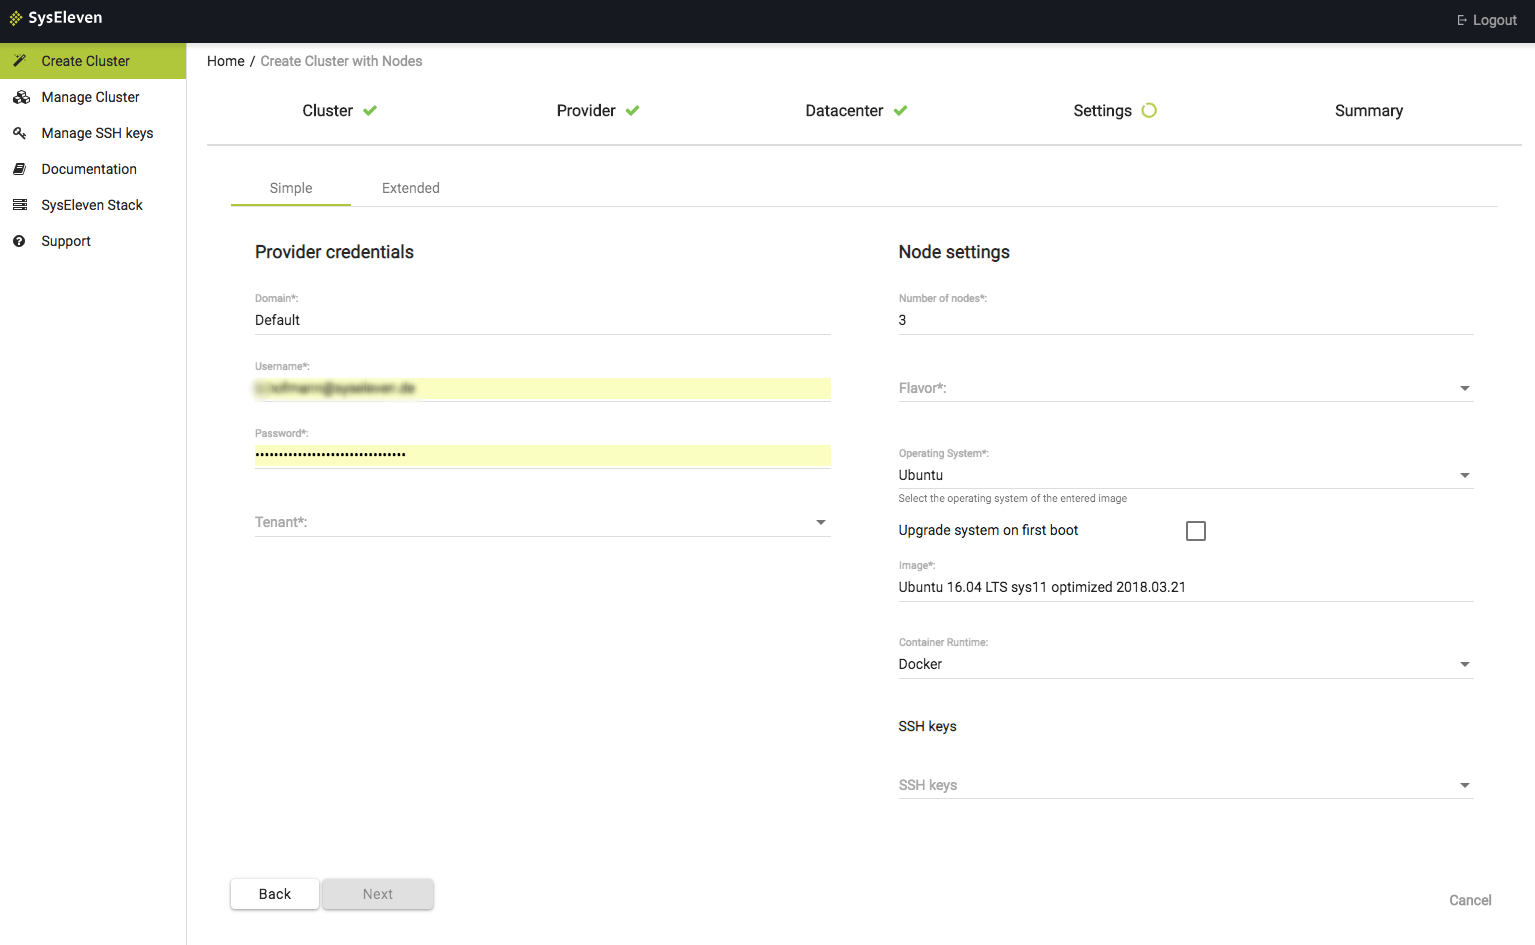
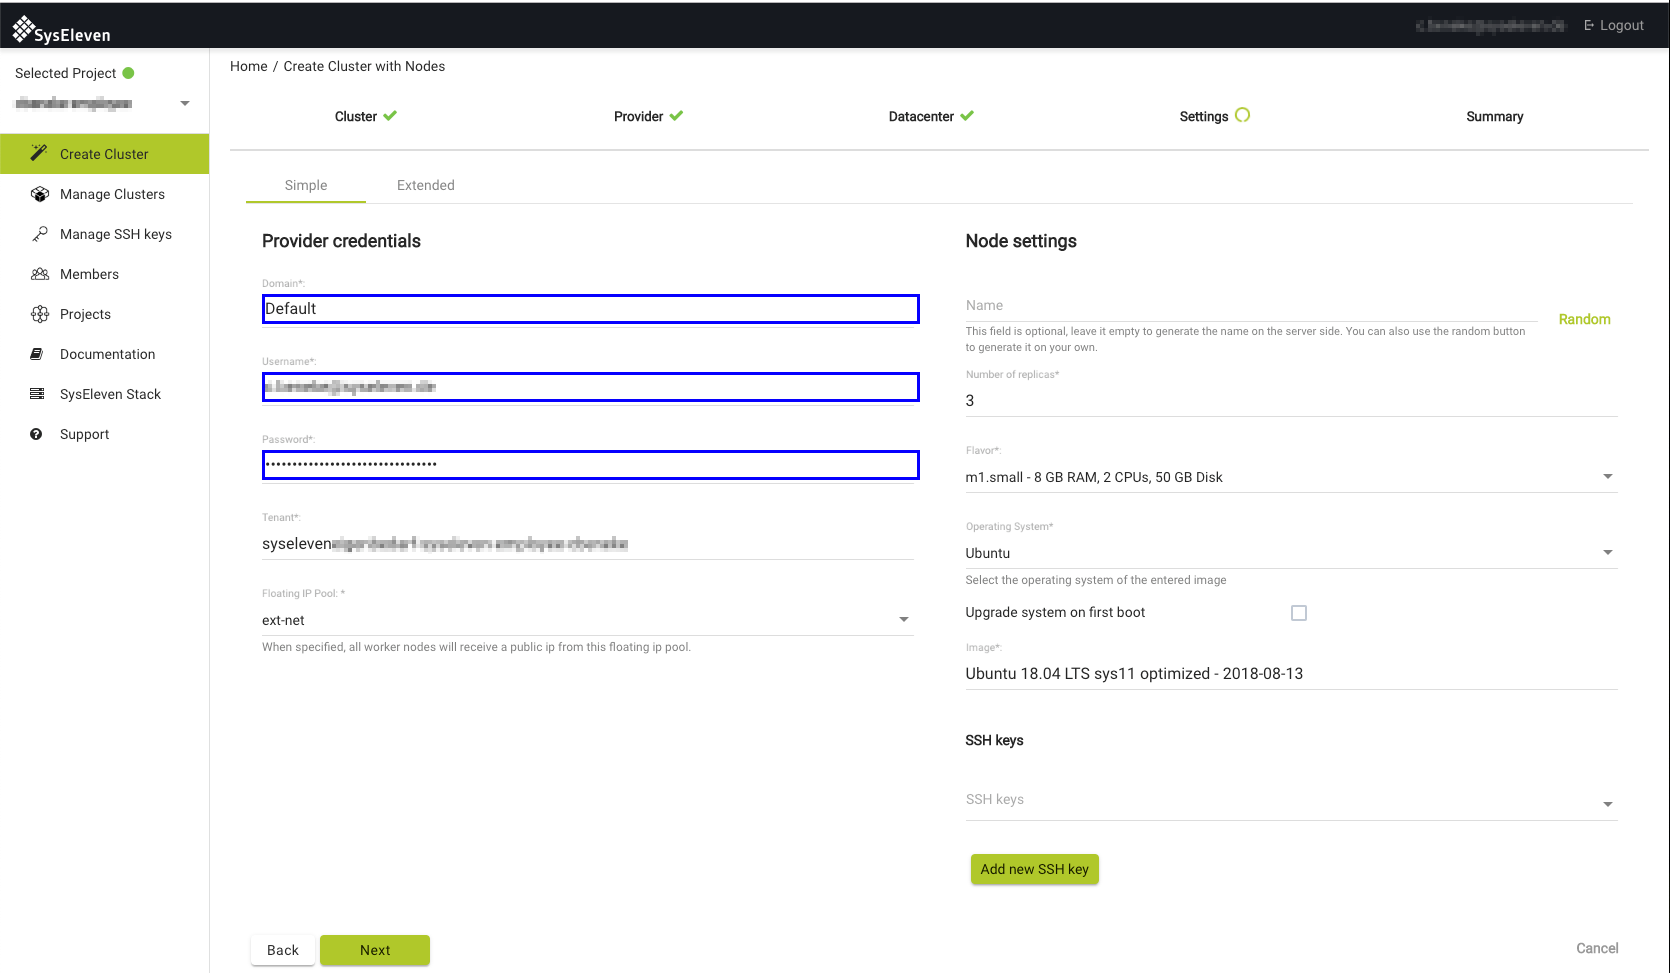
K8s-1522 - WIP

diff --git a/pages/03.Tutorials/11.manage-worker-nodes-via-cli/default.en.md b/pages/03.Tutorials/11.manage-worker-nodes-via-cli/default.en.md
@@ -9,7 +9,7 @@ taxonomy:
         - node
 ---
 
-Worker nodes can be managed with our web UI as described in [add a worker node](../08.add-a-worker-node/default.en.md). Once you installed [kubectl](../07.using-kubectl/default.en.md), you can also manage them via Command-Line-Interface (CLI) in order to automate creation, deletion and upgrades of nodes.
+Worker nodes can be managed with our web UI as described in [manage node deployments](../09.manage-node-deployments/default.en.md). Once you installed [kubectl](../07.using-kubectl/default.en.md), you can also manage them via Command-Line-Interface (CLI) in order to automate creation, deletion and upgrades of nodes.
 
 ## List all available nodes
 
@@ -19,80 +19,89 @@ To get a list of all nodes execute:
 kubectl get nodes -o wide
 ```
 
-Every node is managed by a machine resource in the `kube-system` namespace. To list all machine resources, execute:
+Every node is managed by a machine resource in the `kube-system` namespace, which are bundled into machinedeployments. To list all machinedeployment resources, execute:
 
 ```bash
-kubectl get machines --namespace kube-system
+kubectl get machinedeployments --namespace kube-system
 ```
 
-## Add a node
+## Manage sets worker nodes
 
-To add a node via CLI, set up the following variables:
+When you want to change a machinedeployment you can edit the machinedeployment resource directly:
 
 ```bash
-# Set up the flavor for the node
-FLAVOR="m1.micro"
-
-# Choose the public key, you want to deploy on the node
-SSH_PUBLIC_KEY=$(cat ~/.ssh/id_rsa.pub)
-
-# Getting the cluster name like this only works if you did not rename the
-# context in the downloaded kubeconfig. If you did, choose the original name of
-# the cluster (10 character alphanumeric string).
-CLUSTER_NAME=$(kubectl config current-context)
+kubectl edit machinedeployment ${machinedeployment} --namespace kube-system
 ```
 
-Afterwards run the following commands. You most likely do not need to change any of the remaining variables:
+A machinedeployment looks like the following:
 
-```bash
-OPERATING_SYSTEM="ubuntu"
-IMAGE_NAME="Ubuntu 18.04 LTS sys11 optimized - 2018-08-13"
-REGION="dbl"
-AVAILABILITY_ZONE="dbl1"
-FLOATING_IP_POOL="ext-net"
-K8S_VERSION="1.12.2"
-MACHINE_NAME=$(cat /dev/urandom | base64 | tr -cd 'a-z0-9' | head -c 5)
-
-cat <<EOF | kubectl apply -f -
+```yaml
 apiVersion: cluster.k8s.io/v1alpha1
-kind: Machine
+kind: MachineDeployment
 metadata:
-  name: machine-kubermatic-${CLUSTER_NAME}-${MACHINE_NAME}
+  annotations:
+    machinedeployment.clusters.k8s.io/revision: "2"
+  creationTimestamp: "2019-02-18T18:10:57Z"
+  generateName: kubermatic-92r62cx8j6-
+  generation: 2
+  name: kubermatic-92r62cx8j6-xmljg
   namespace: kube-system
+  resourceVersion: "4015"
+  selfLink: /apis/cluster.k8s.io/v1alpha1/namespaces/kube-system/machinedeployments/kubermatic-92r62cx8j6-xmljg
+  uid: 89e8b9f0-33a8-11e9-9e48-0a580af40383
 spec:
-  metadata:
-    name: kubermatic-${CLUSTER_NAME}-${MACHINE_NAME}
-  providerSpec:
-    value:
-        cloudProvider: openstack
-        cloudProviderSpec:
-          availabilityZone: ${AVAILABILITY_ZONE}
-          flavor: ${FLAVOR}
-          floatingIpPool: ${FLOATING_IP_POOL}
-          identityEndpoint: "https://api.${REGION}.cloud.syseleven.net:5000/v3"
-          image: "${IMAGE_NAME}"
-          network: kubermatic-${CLUSTER_NAME}
-          region: ${REGION}
-          securityGroups:
-          - kubermatic-${CLUSTER_NAME}
-        operatingSystem: ${OPERATING_SYSTEM}
-        operatingSystemSpec:
-          distUpgradeOnBoot: false
-        sshPublicKeys:
-        - "${SSH_PUBLIC_KEY}"
-  roles:
-  - Node
-  versions:
-    kubelet: "v${K8S_VERSION}"
-EOF
+  minReadySeconds: 0
+  progressDeadlineSeconds: 600
+  replicas: 1
+  revisionHistoryLimit: 1
+  selector:
+    matchLabels:
+      machine: md-92r62cx8j6-cc45b75qqf
+  strategy:
+    rollingUpdate:
+      maxSurge: 1
+      maxUnavailable: 0
+    type: RollingUpdate
+  template:
+    metadata:
+      creationTimestamp: null
+      labels:
+        machine: md-92r62cx8j6-cc45b75qqf
+    spec:
+      metadata:
+        creationTimestamp: null
+      providerSpec:
+        value:
+          cloudProvider: openstack
+          cloudProviderSpec:
+            availabilityZone: dbl1
+            domainName: ""
+            flavor: m1.micro
+            floatingIpPool: ext-net
+            identityEndpoint: https://api.dbl.cloud.syseleven.net:5000/v3
+            image: Ubuntu 18.04 LTS sys11 optimized - 2018-08-13
+            network: kubermatic-92r62cx8j6
+            password: ""
+            region: dbl
+            securityGroups:
+            - kubermatic-92r62cx8j6
+            subnet: 86db31c3-d5dd-4a88-bc92-ab8a148062c8
+            tags:
+              kubermatic-cluster: 92r62cx8j6
+            tenantName: ""
+            tokenId: ""
+            username: ""
+          operatingSystem: ubuntu
+          operatingSystemSpec:
+            distUpgradeOnBoot: false
+          sshPublicKeys: []
+      versions:
+        kubelet: 1.13.3
 ```
 
-For more details on Machines see [Cluster Management API](../../02.Documentation/12.cluster-api/default.en.md).
+The most common fields to update are:
 
-## Delete a node
-
-Find the machine name of the node you want to delete (see _Listing all available nodes_) and execute:
-
-```bash
-kubectl delete machine machine-kubermatic-name --namespace kube-system
-```
+* `spec.replicas`: The amount of worker nodes managed by this set
+* `spec.template.providerSpec.value.cloudProvicerspec.flavor`: The OpenStack flavor
+* `spec.template.providerSpec.value.cloudProvicerspec.image`: The OpenStack image
+* `spec.template.providerSpec.value.operatingSystem`: The operating system of the virtual machine

diff --git a/pages/03.Tutorials/03.upgrade-a-cluster/default.en.md b/pages/03.Tutorials/03.upgrade-a-cluster/default.en.md
@@ -9,75 +9,29 @@ taxonomy:
         - cluster
 ---
 
-[Upgrade master components](#upgrade-master-components)
-[Upgrade worker nodes](#upgrade-worker-nodes)
-
 ## Upgrade master components
 
 When an upgrade for the master nodes is available, a blue text `upgrade available` will be shown besides the Master version:
 
-![Cluster with available upgrade](image_upgrade-available_01.png)
+![Cluster with available upgrade](image_upgrade_master_01.png)
 
 To start the upgrade, just click on the link and choose the desired version (most recent, tested version is selected):
 
-![Dialog to choose upgrade version](image_upgrade-version_01.png)
+![Dialog to choose upgrade version](image_upgrade_master_02.png)
 
 After the update is initiated, the master components will be upgraded in the background. All newly created worker nodes will be installed with the new version, but existing nodes will not be changed. Refer to the next chapter on how to upgrade your existing worker nodes.
 
 ## Upgrade worker nodes
 
-The worker nodes can not be upgraded in place. This means they have to be replaced by newer versions to be upgraded. The basic upgrade path is:
+When you want to upgrade your worker nodes you can easily edit your node deployment for the active cluster and MetaKube will take care of the updates. To do so, open the node deployment overview and click on the `Edit Node Deployment` button:
 
-1. [Create new worker nodes](#create-new-worker-nodes)
-2. [Disable scheduling on old worker nodes](#disable-scheduling-on-old-worker-nodes)
-3. [Drain one old worker node](#drain-one-old-worker-node)
-4. [Delete drained worker node](#delete-drained-worker-node)
-5. go to 3 (or 1, if you did not create equally many new worker nodes) until all old worker nodes are deleted
+![Node deployment overview with highlighted edit button](image_edit_np_button_hightlight.png)
 
-### Create new worker nodes
+This will open a popup where you can choose the to be installed Kubernetes version:
 
-Create a set of new worker nodes. For detailed information on how to do this, refer to [Add a worker node](../08.add-a-worker-node/default.en.md):
+![Node deployment edit modal](image_edit_np_modal.png)
 
-### Disable scheduling on old worker nodes
+Your worker nodes will now be updated one by one:
 
-You can disable scheduling onto a worker node with `kubectl cordon ${node}`:
-
-```shell
-$ kubectl cordon kubermatic-w9tk8cmw62-hm5vl
-node "kubermatic-w9tk8cmw62-hm5vl" cordoned
-
-$ kubectl get nodes
-NAME                          STATUS                     ROLES     AGE       VERSION
-kubermatic-w9tk8cmw62-22wgv   Ready,SchedulingDisabled   <none>    6h        v1.9.6
-kubermatic-w9tk8cmw62-58pd6   Ready,SchedulingDisabled   <none>    6h        v1.9.6
-kubermatic-w9tk8cmw62-7q9nx   Ready                      <none>    1m        v1.10.2
-kubermatic-w9tk8cmw62-hm5vl   Ready,SchedulingDisabled   <none>    6h        v1.9.6
-kubermatic-w9tk8cmw62-slh7v   Ready                      <none>    1m        v1.10.2
-```
-
-Before you start draining old nodes, you should disable scheduling on all old nodes to reduce rescheduling overhead. If you do not, a pod could be rescheduled from A to B, and on drain of B to C etc, and cycle through all of the outdated worker nodes.
-
-### Drain one old worker node
-
-When all old nodes are disabled for scheduling, you can start to drain these nodes. This means, all pods are evicted from the node. As DaemonSets are scheduled on all available nodes, you must ignore them with `--ignore-daemonsets` and local storage must be deleted with `--delete-local-data`.
-
-```shell
-$ kubectl drain --delete-local-data --ignore-daemonsets kubermatic-w9tk8cmw62-22wgv
-node "kubermatic-w9tk8cmw62-22wgv" already cordoned
-WARNING: Ignoring DaemonSet-managed pods: canal-hgrlh, kube-proxy-s5tnt, npd-v0.4.1-g5wqj
-pod "traefik-ingress-controller-57b4767f99-8rrgg" evicted
-node "kubermatic-w9tk8cmw62-22wgv" drained
-```
-
-### Delete drained worker node
-
-When the worker node is drained, you can safely delete it. For detailed information on how to do this, refer to [Delete a worker node](../09.delete-a-worker-node/default.en.md). If you had enough free resources to create a complete set of new worker nodes, or have created enough to hold the current load, you can continue to drain the next old node ('go to 3'). Otherwise you should create more new worker nodes now ('go to 1').
-When everything is done, you should have a new set of worker nodes with the new kubernetes/kubelet version:
-
-```shell
-$ kubectl get nodes
-NAME                          STATUS    ROLES     AGE       VERSION
-kubermatic-w9tk8cmw62-7q9nx   Ready     <none>    10m       v1.10.2
-kubermatic-w9tk8cmw62-q2zr4   Ready     <none>    4m        v1.10.2
-kubermatic-w9tk8cmw62-slh7v   Ready     <none>    10m       v1.10.2
-```
+![Worker node update in progress](image_edit_np_wait_for_node.png)
+![Worker node update finished](image_edit_np_finished.png)

diff --git a/pages/03.Tutorials/02.create-a-cluster/default.en.md b/pages/03.Tutorials/02.create-a-cluster/default.en.md
@@ -9,9 +9,6 @@ taxonomy:
         - cluster
 ---
 
-[Place to live](#place-to-live)
-[Create the cluster](#create-the-cluster)
-
 ## Place to live
 
 To create a new cluster, open the MetaKube dashboard and select the menu entry `Create Cluster`. Clusters are tied to a [project](../../02.Documentation/02.projects/default.en.md). You can create as many clusters within one project as you want.
@@ -36,28 +33,20 @@ In the next step of the installer, enter the domain name and your SysEleven Stac
 
 Then choose the tenant where you want to create the cluster from the drop-down list:
 
-![Overview of cluster settings with filled out tenant](image_cluster-settings_02.png)
+![Overview of cluster settings with highlighted tenant section](image_cluster-settings_02.png)
 
-For node settings we recommend at least 3 nodes sized `m1.small` or bigger. For an overview of the possible node flavors see the [SysEleven Stack documentation](https://docs.syseleven.de/syseleven-stack/en/documentation/flavors):
+For node settings we recommend at least 3 nodes sized `m1.small` or bigger. For an overview of the possible node flavors see the [SysEleven Stack documentation](https://docs.syseleven.de/syseleven-stack/en/documentation/flavors). It is also possible to choose the operating system and image used for your worker nodes:
 
-![Overview of cluster settings with opened flavor drop-down](image_cluster-settings_03.png)
+![Overview of cluster settings with highlighted node section](image_cluster-settings_03.png)
 
-You can also choose the operating system you want to use for your worker nodes:
-
-![Overview of cluster settings with opened OS drop-down](image_cluster-settings_04.png)
 
 A default image tested and maintained by SysEleven is automatically chosen for the nodes, but you can also enter any image available to you in SysEleven Stack. To get a list of current base images, navigate to `Project -> Compute -> Images` in the SysEleven Stack dashboard:
 
 ![Overview of openstack images](image_stack-images_01.png)
 
 Make sure to enter the exact name of the image you want to run on your machines, as listed in the images tab of the SysEleven stack dashboard.
-The chosen SSH key will be used for authentication as user `apiserver` on all worker nodes:
+The chosen SSH key will be used for authentication for the default user (e.g. `ubuntu` for Ubuntu images) on all worker nodes. When you click on next, you will see a summary and the cluster creation will start after you confirm. You will then be forwarded to the cluster creation page where you can view the cluster creation process:
 
-![Overview of cluster settings with opened SSH key drop-down](image_cluster-settings_05.png)
-
-When you click on next, you will see a summary and the cluster creation will start after you confirm. You will then be forwarded to the cluster creation page where you can view the cluster creation process:
-
-![Final overview of cluster settings](image_cluster-settings_06.png)
 ![Cluster details in creation state](image_cluster-details_01.png)
 
 After all of the master components are ready, your cluster will create the configured number of worker nodes in your SysEleven Stack tenant. Fully created nodes will be marked with a green dot, pending ones with a yellow circle. You may [download the kubeconfig](../06.download-the-kubeconfig/default.en.md) now to be able to use `kubectl` with your cluster. After all nodes are created you can use `kubectl` to view and check the status of the created nodes:

diff --git a/pages/03.Tutorials/22.read-write-many-volumes/default.en.md b/pages/03.Tutorials/22.read-write-many-volumes/default.en.md
@@ -23,7 +23,7 @@ This tutorial shows how you can enable RWX, by deploying [rook](https://rook.io)
 
 ### Known Limitations
 
-* You should use local storage nodes (flavors beginning with `l1.`) for the rook deployment. See [Add a new node](../08.add-a-worker-node/default.en.md) for how to add local storage nodes and [Assigning pods to nodes](https://kubernetes.io/docs/concepts/configuration/assign-pod-node/) for how to limit rook and ceph to these local storage nodes.
+* You should use local storage nodes (flavors beginning with `l1.`) for the rook deployment. See [manage node deployments](../09.manage-node-deployments/default.en.md) for how to add local storage nodes and [Assigning pods to nodes](https://kubernetes.io/docs/concepts/configuration/assign-pod-node/) for how to limit rook and ceph to these local storage nodes.
 * Rook supports only one shared file system. If you need multiple shared file systems you need to set the env `ROOK_ALLOW_MULTIPLE_FILESYSTEMS=true`. This is an experimental feature! Further information can be found in the [ceph docs](http://docs.ceph.com/docs/master/cephfs/experimental-features/#multiple-filesystems-within-a-ceph-cluster) and the [rook docs](https://rook.io/docs/rook/v0.9/ceph-filesystem.html).
 * Even though it should be possible to change the rook namespaces, we observed strange issues with the Ceph cluster when using different namespaces.
 

diff --git a/pages/02.Documentation/10.metakube-webterminal/default.en.md b/pages/02.Documentation/10.metakube-webterminal/default.en.md
@@ -8,10 +8,16 @@ taxonomy:
 ---
 
 Every MetaKube cluster comes with a web-terminal directly in the MetaKube web interface that gives command line access to the cluster directly from the browser.
-To access the dashboard just click on the `Web Terminal` link on the cluster detail page. This bash terminal runs on Alpine Linux in the background and comes installed with all the necessary tools to interact with your cluster:
+To access the dashboard just click on the `Web Terminal` link on the cluster detail page:
+
+![MetaKube Dashboard](metakube-dashboard.png)
+
+This bash terminal runs on Alpine Linux in the background and comes installed with all the necessary tools to interact with your cluster:
 
 1) [kubectl](https://kubernetes.io/docs/tasks/tools/install-kubectl/)
 2) [helm](https://helm.sh/)
 3) [tiller](https://docs.helm.sh/install/#installing-tiller)
 4) [Ark](https://github.com/heptio/ark)
 5) curl, wget and git
+
+

diff --git a/pages/03.Tutorials/20.use-horizontal-node-autoscaling/default.en.md b/pages/03.Tutorials/20.use-horizontal-node-autoscaling/default.en.md
@@ -119,7 +119,7 @@ Events:
 ```
 
 This means we need to increase the capacity of our cluster by adding more nodes. Of course this could be done manually through
-the MetaKube dashboard (see [Adding a worker node](../08.add-a-worker-node/default.en.md)) or over CLI (see [Managing worker nodes over CLI](../11.manage-worker-nodes-via-cli/default.en.md)),
+the MetaKube dashboard (see [Manage number of worker nodes](../09.manage-node-deployments/default.en.md)) or over CLI (see [Managing worker nodes over CLI](../11.manage-worker-nodes-via-cli/default.en.md)),
 but for this tutorial, let's use the cluster autoscaler.
 
 For this we have to create a scalable MachineDeployment in our cluster:

diff --git a/pages/02.Documentation/09.metakube-dashboard/default.en.md b/pages/02.Documentation/09.metakube-dashboard/default.en.md
@@ -12,4 +12,4 @@ To access the dashboard just click on the `Dashboard` link on the cluster detail
 
 ![MetaKube Cluster Detail Page](metakube-cluster-detail.png)
 
-![MetaKube Cluster List](metakube-cluster-list.png)
+![MetaKube Dashboard](metakube-dashboard.png)
